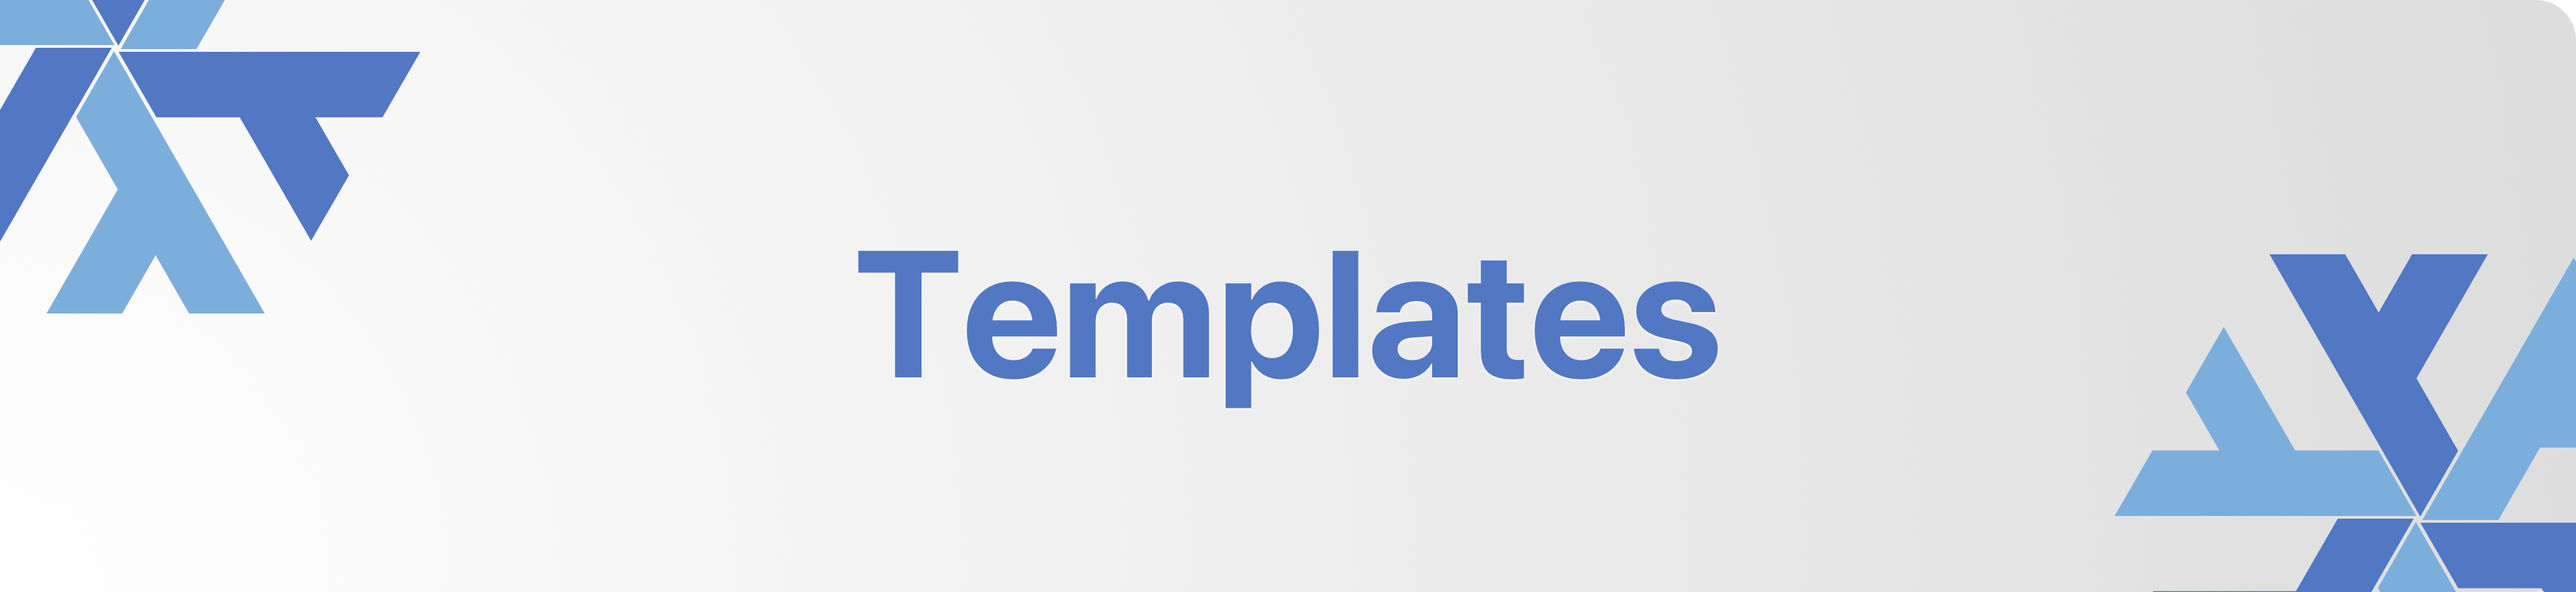
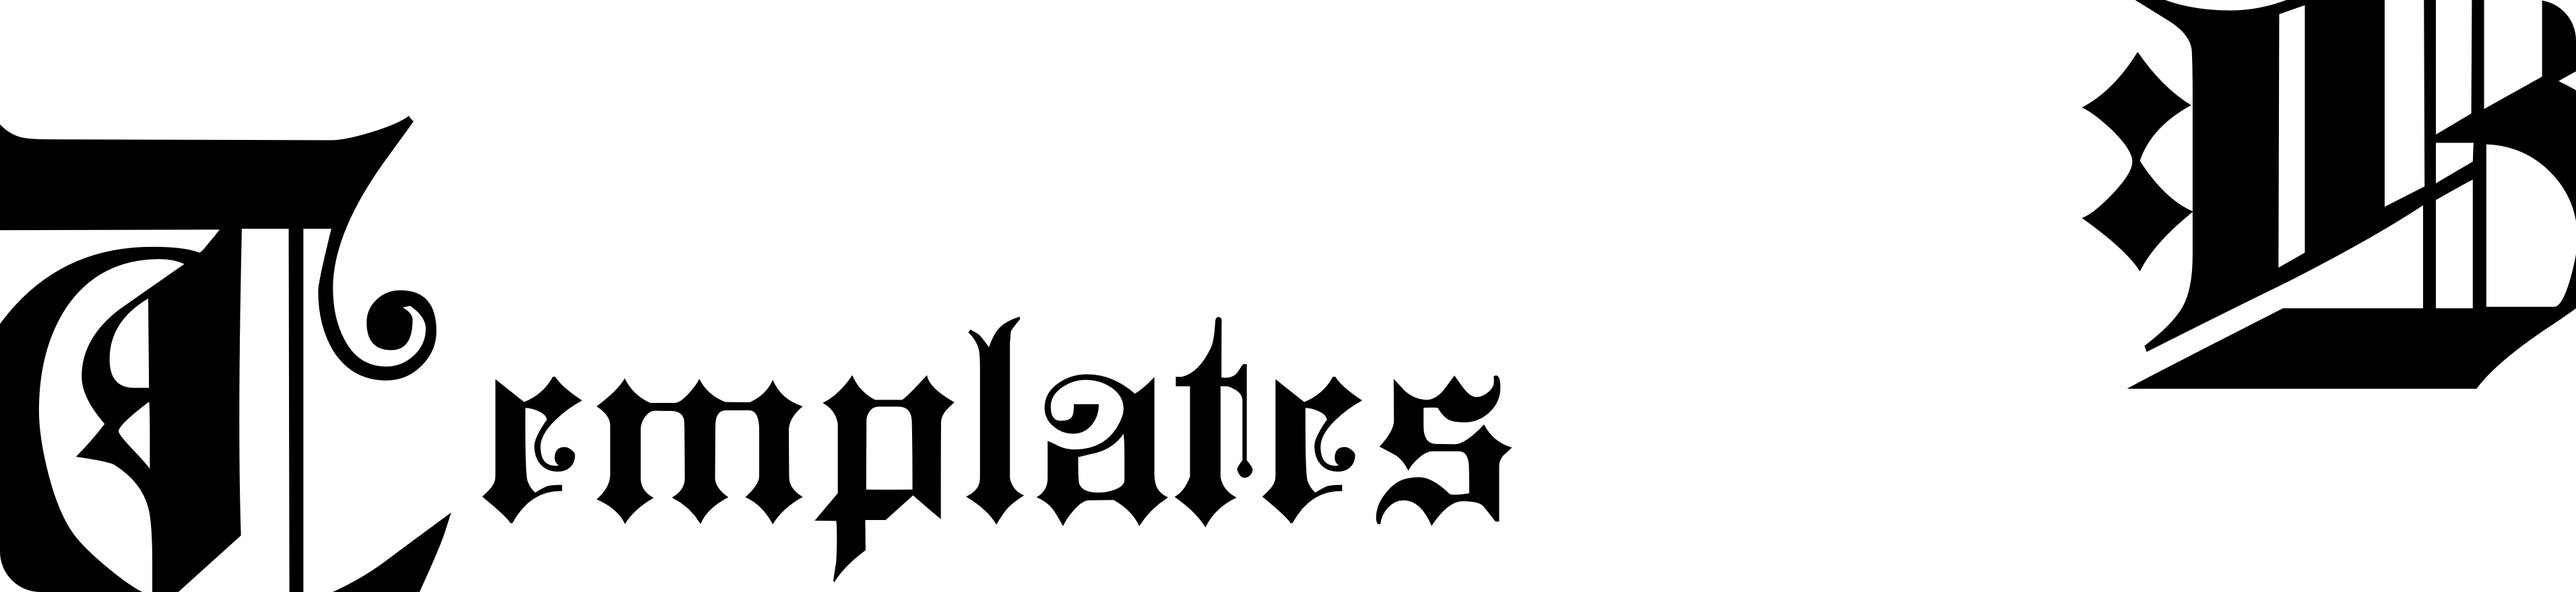
fix: readme following migration

diff --git a/README.md b/README.md
@@ -1,5 +1,5 @@
 <p align="center">
-    <img src=".github/assets/header.png" alt="Xinux'es {Templates}">
+    <img src=".github/assets/header.png" alt="Bleur's {Templates}">
 </p>
 
 <p align="center">
@@ -7,13 +7,12 @@
 </p>
 
 <p align="center">
-    <img align="center" src="https://img.shields.io/github/languages/top/xinux-org/templates?style=flat&logo=nixos&logoColor=5277C3&labelColor=ffffff&color=ffffff" alt="Top Used Language">
-    <a href="https://t.me/xinux"><img align="center" src="https://img.shields.io/badge/Chat-grey?style=flat&logo=telegram&logoColor=5277C3&labelColor=ffffff&color=ffffff" alt="Telegram Community"></a>
+    <img align="center" src="https://img.shields.io/github/languages/top/bleur-org/templates?style=flat&logo=rust&logoColor=000000&labelColor=ffffff&color=ffffff" alt="Top Used Language">
 </p>
 
 ## About
 
-This is a collection of Xinux'es Nix bootstrapped templates which can be used to bootstrap your own project for certain stack. The templates have everything set up ready for you, so you can focus on developing the application instead of playing around configuring everything to get it working.
+This is Bleur stack, a collection of Nix bootstrapped templates which can be used to bootstrap your own project for certain stack. The templates have everything set up ready for you, so you can focus on developing the application instead of playing around configuring everything to get it working.
 
 > Every repository has its own detailed readme.md for more information to get started once you're done with bootstrapping.
 
@@ -31,14 +30,14 @@ In order to bootstrap your own project using our templates, you need to `cd` som
 
 ```bash
 # Replace `example` with any supported template above in projects section
-nix flake init --template github:xinux-org/templates#example
+nix flake init --template github:bleur-org/templates#example
 ```
 
 the command above will bootstrap project in current directory, or you can indicate location where it should be boostrapped:
 
 ```bash
 # instead of examples, any chosen project via #...
-nix flake new --template github:xinux-org/templates#example ./my-cool-project
+nix flake new --template github:bleur-org/templates#example ./my-cool-project
 ```
 
 ## Thanks
@@ -51,5 +50,5 @@ nix flake new --template github:xinux-org/templates#example ./my-cool-project
 This project is licensed under the MIT License - see the [LICENSE](license) file for details.
 
 <p align="center">
-    <img src=".github/assets/footer.png" alt="Xinux'es {Templates}">
+    <img src=".github/assets/footer.png" alt="Bleur's {Templates}">
 </p>
